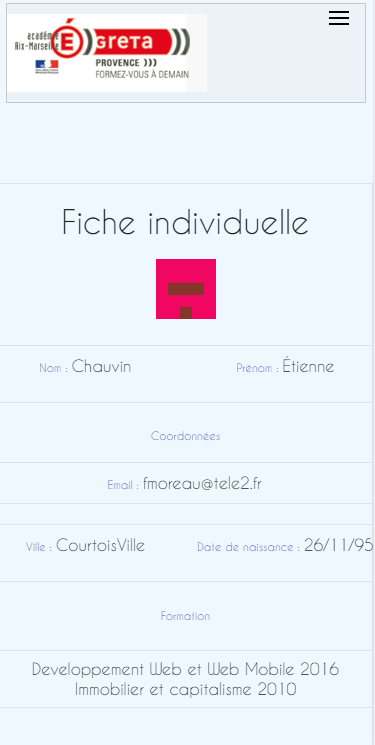
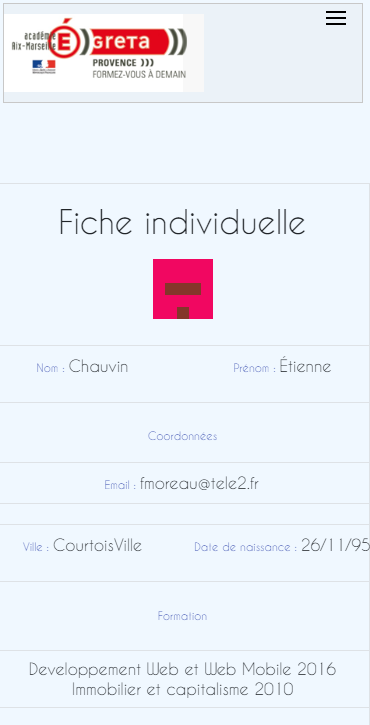
v2804

diff --git a/main.css b/main.css
@@ -67,7 +67,7 @@ ul li{
     border-top:1px lightgrey solid;
     border-bottom: 1px lightgrey solid;
     background-color: #F7F7F7;
-    margin-left:-4%;
+    margin-left:-10%;
     position: fixed;
 }
 .transformSVG{
@@ -179,8 +179,9 @@ figcaption{
 /*************************************section mes projets************************************/
 .wrapper-2{
     display: grid;
-    grid-template-columns: 15% repeat(3,1fr) 15%;
-    grid-auto-rows: 600px;
+    /*grid-template-columns: 15% repeat(3,1fr) 15%;*/
+    grid-template-columns: 1fr repeat(3,377px) 1fr;
+    grid-auto-rows: 550px;
     grid-gap:20px;
     margin-top:3%;
 }
@@ -189,6 +190,11 @@ figcaption{
     /*place-items: center;*/
     border:1px lightgrey solid;
     background-color: #f7f7f7;
+}
+#projets,
+#contact{
+    margin-top:6%;
+    border-top:1px lightgrey solid;
 }
 .one-2{
      grid-column: 2;
@@ -202,7 +208,7 @@ figcaption{
 .one-2 img,
 .two-2 img,
 .three-2 img{
-    width:417px;
+    width:375px;
     height:auto;
     border-bottom:1px lightgrey solid;
 }
@@ -267,6 +273,77 @@ figcaption{
 .text_projet p{
     line-height: 22px;
     font-size: 0.9em;
+}
+#coordonnées{
+    text-align: center;
+    margin: 1% 0 2% 0;
+    line-height: 20px;
+    font-size: 0.9em;
+}
+.wrapper-3{
+    display:grid;
+    grid-template-columns: 1fr 300px 1fr;
+    grid-auto-rows: 250px;
+    grid-row-gap:20px;
+}
+.one-3{
+    grid-column: 2;
+}
+.two-3{
+    grid-column: 1/4;
+    grid-row: 2;
+}
+.two-3 p{
+    text-align: center;
+}
+.two-3 p:first-child{
+    border: 1px lightgrey solid;
+    margin-left: 20%;
+    margin-right: 20%;
+    padding: 19px;
+    background-color: #f7f7f7;
+    border-radius:5px;
+}
+.img_cv{
+    width:300px;
+    border-radius:50%;
+}
+.triangle{
+    position: relative;
+    margin:0 auto;
+    width:0;
+    height:0;  /*Un carré de dimensions 0px */
+    border:solid 18px;  /*Définition des bordures */
+    border-color:lightgrey transparent transparent  transparent;
+}
+.triangle1{
+    position: absolute;
+    border: solid 17px;
+    border-color: #f7f7f7 transparent transparent transparent;
+    top: -19px;
+    left: -17px;
+}
+.bouton_scroll{
+    position:absolute;
+    width: 30px;
+    height: 27px;
+    bottom: 2vh;
+    right: 1vw;
+    background-color: rgb(228,66,38);
+    border:1px gold solid;
+    border-radius: 4px;
+    line-height: 27px;
+}
+.bouton_scroll span{
+    font-size: 1.5em;
+    margin-left: 9px;
+    color: black;
+}
+footer{
+    position:relative;
+    height: 65px;
+    background-color: rgb(43,160,60);
+    /*background-color: rgb(145, 184, 151);*/
 }
 /**************************************Responsive 1550**************************************/
 @media(max-width:1550px){
@@ -520,6 +597,12 @@ figcaption{
 }
 /**************************************Responsive 375********************/
 @media(max-width: 375px){
+    h3{
+        font-size:0.9em;
+    }
+    .text_projet p{
+        font-size:0.8em;
+    }
     #text_title{
         font-size: 1.6rem;
     }
@@ -539,12 +622,23 @@ figcaption{
         grid-auto-rows: 270px;
         grid-gap: 10px;
     }
+    .wrapper-2{
+        grid-template-columns: 1fr repeat(3,280px) 1fr;
+        grid-auto-rows: 430px;
+
+    }
+    .one-2 img,
+    .two-2 img,
+    .three-2 img{
+        width:278px;
+    }
     #section_titre{
         height:127px;
     }
     h2{
         font-size:1.2em;
     }
+
     .sliderH2{
         padding:40px;
     }
